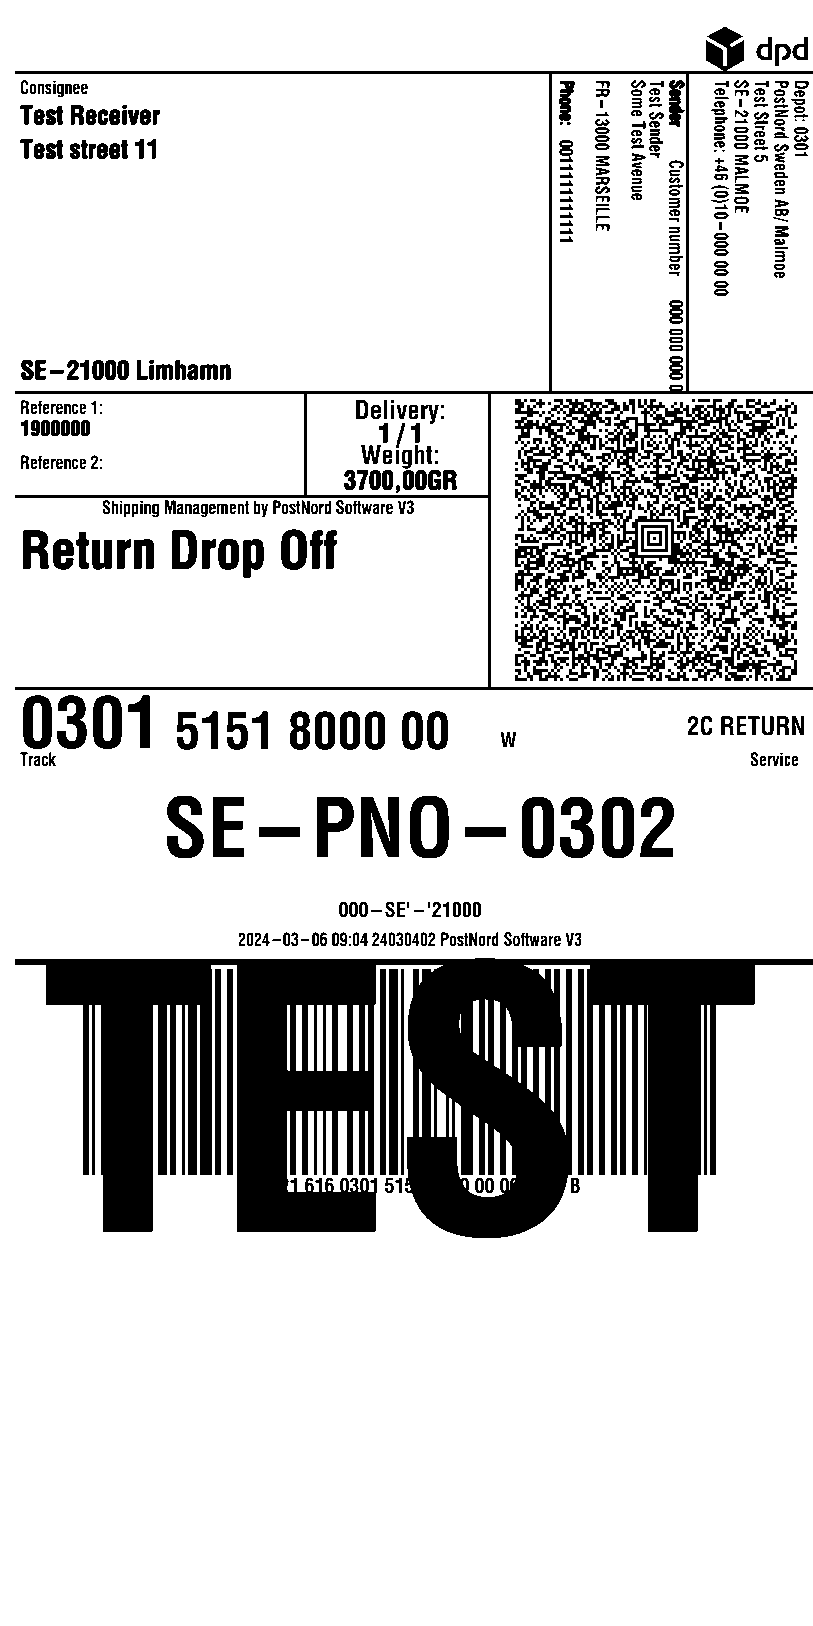
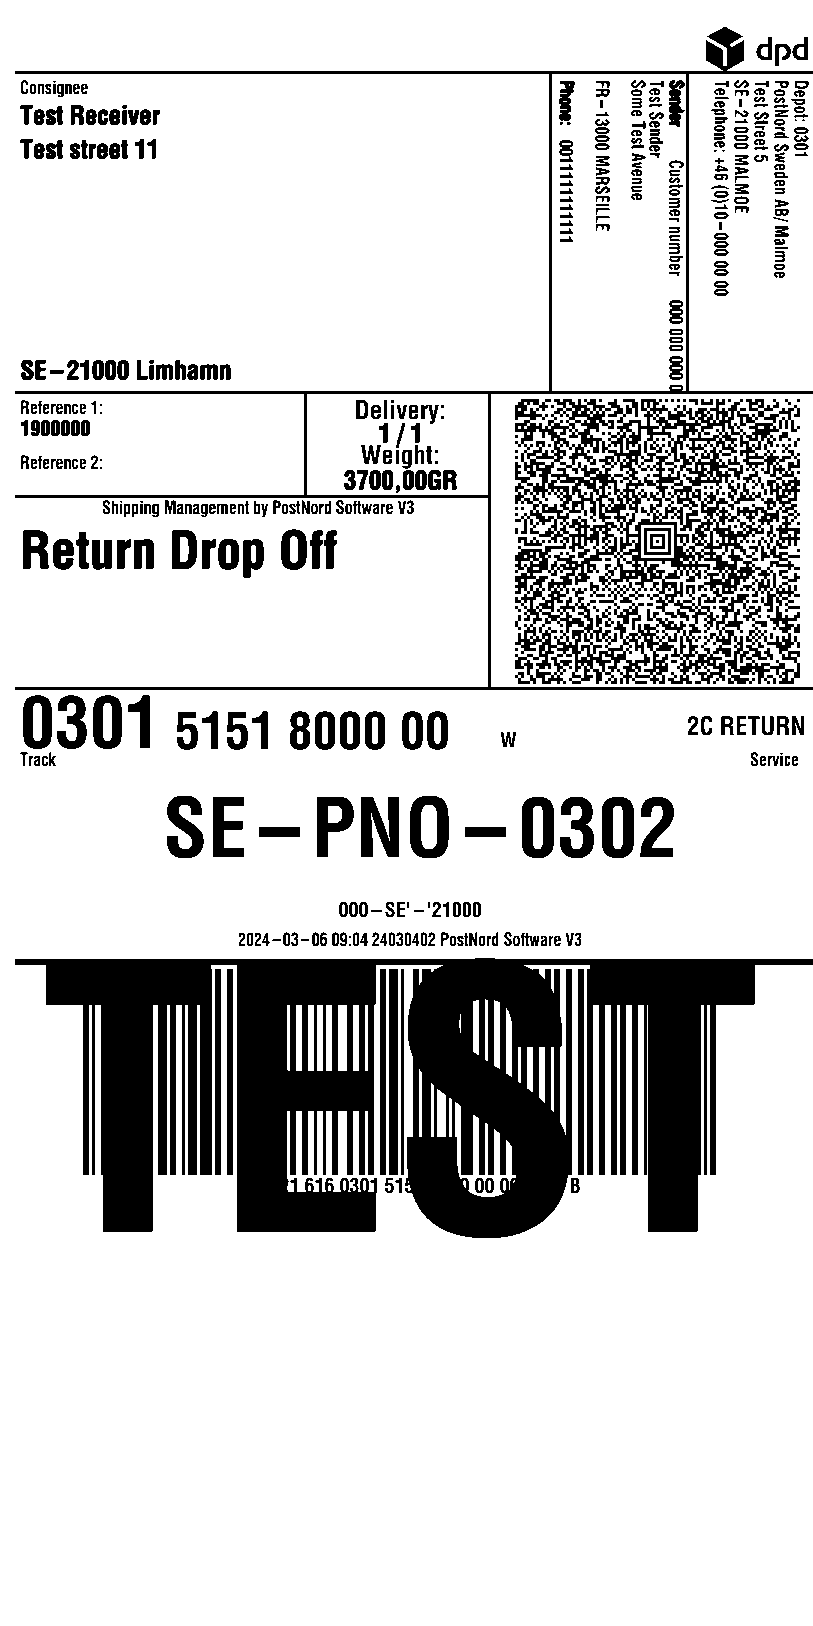
Fix corrupted aztec code

Changed region(s): [[0.615, 0.246, 0.984, 0.4305]]

diff --git a/internal/barcodes/aztec/azteccode.go b/internal/barcodes/aztec/azteccode.go
@@ -23,7 +23,7 @@ func (c *aztecCode) ColorModel() color.Model {
 }
 
 func (c *aztecCode) Bounds() image.Rectangle {
-	return image.Rect(0, 0, c.size-1, c.size-1)
+	return image.Rect(0, 0, c.size, c.size)
 }
 
 func (c *aztecCode) At(x, y int) color.Color {
